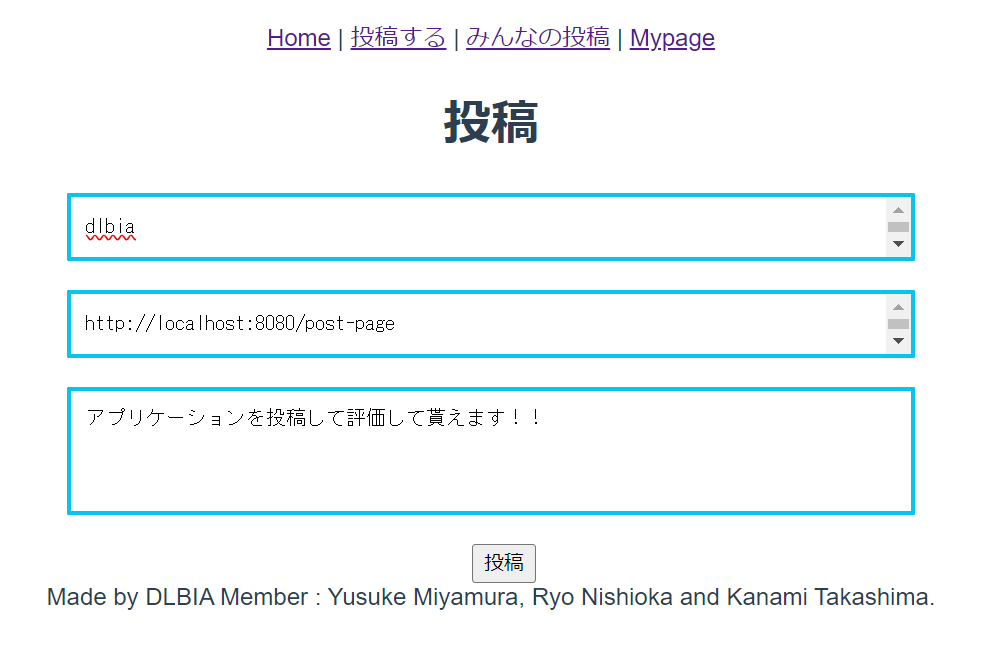
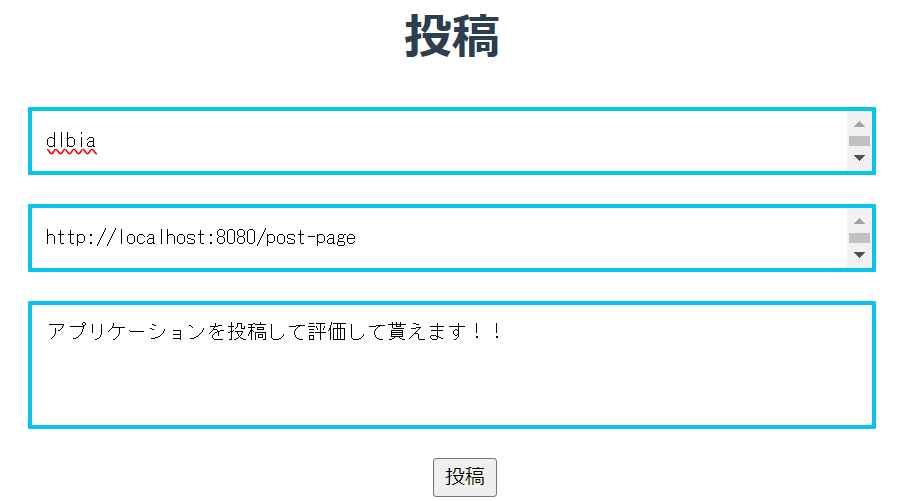
プルリクのためいったん保存

Changed region(s): [[0.0312, 0.1497, 0.9989, 0.5689], [0.0312, 0.5689, 0.9989, 1.0], [0.2497, 0.0299, 0.7179, 0.1198]]

diff --git a/src/App.vue b/src/App.vue
@@ -1,5 +1,5 @@
 <template>
-  <Header></Header>
+  <Header class="header"></Header>
   <div>
     <div>
       <router-link to="/">Home</router-link> |
@@ -30,7 +30,11 @@ export default {
   -webkit-font-smoothing: antialiased;
   -moz-osx-font-smoothing: grayscale;
   text-align: center;
-  color: #2c3e50;
+  color: #0e0e0e;
+}
+.header {
+  position: relative;
+  margin: 0 auto;
 }
 
 nav {
@@ -39,10 +43,11 @@ nav {
 
 nav a {
   font-weight: bold;
-  color: #2c3e50;
+  color: #0b0a0a;
 }
 
 nav a.router-link-exact-active {
   color: #42b983;
+  position: relative;
 }
 </style>

diff --git a/src/views/HomeView.vue b/src/views/HomeView.vue
@@ -1,6 +1,6 @@
 <template>
   <div class="home">
-    <h1>アプリを投稿して評価して貰おう！！</h1>
+    <h3 class="post-sample">アプリを投稿して評価して貰おう！！</h3>
   </div>
   <div>
     <img
@@ -9,9 +9,16 @@
       alt="カテゴリーの紹介写真"
     />
   </div>
+  <h3 class="post-sample">
+    プログラマーのアプリを見て参考にしたり、評価しよう！！
+  </h3>
 </template>
 <style scoped>
 .postsample_img {
   width: 50%;
+  border: 3px solid #47474b;
+}
+.post-sample {
+  color: #0e0e0f;
 }
 </style>

diff --git a/src/components/MainHeader.vue b/src/components/MainHeader.vue
@@ -12,5 +12,6 @@
 <style scoped>
 .header {
   display: flex;
+  margin: 0 auto;
 }
 </style>
